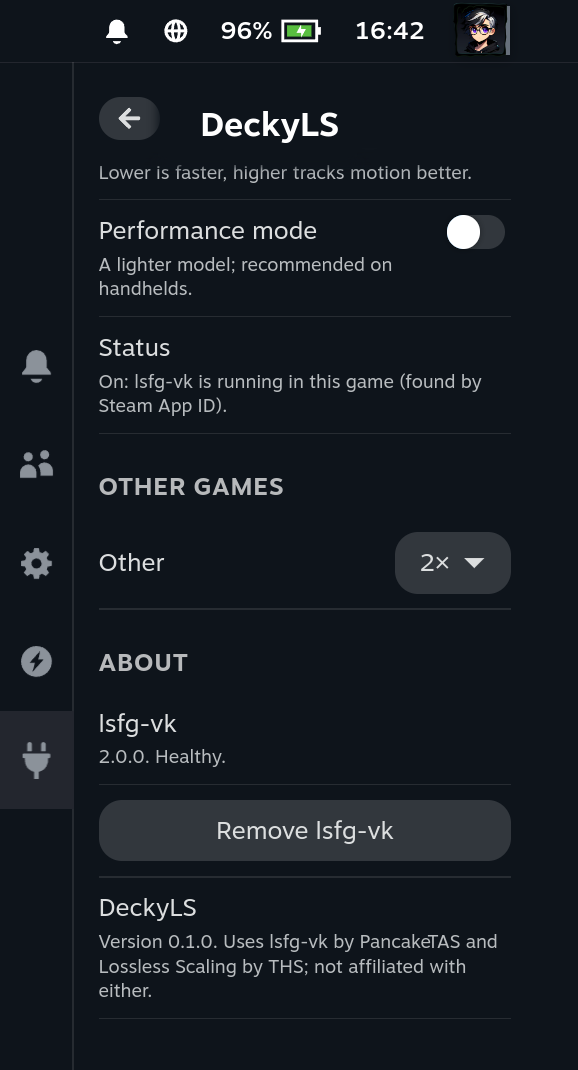
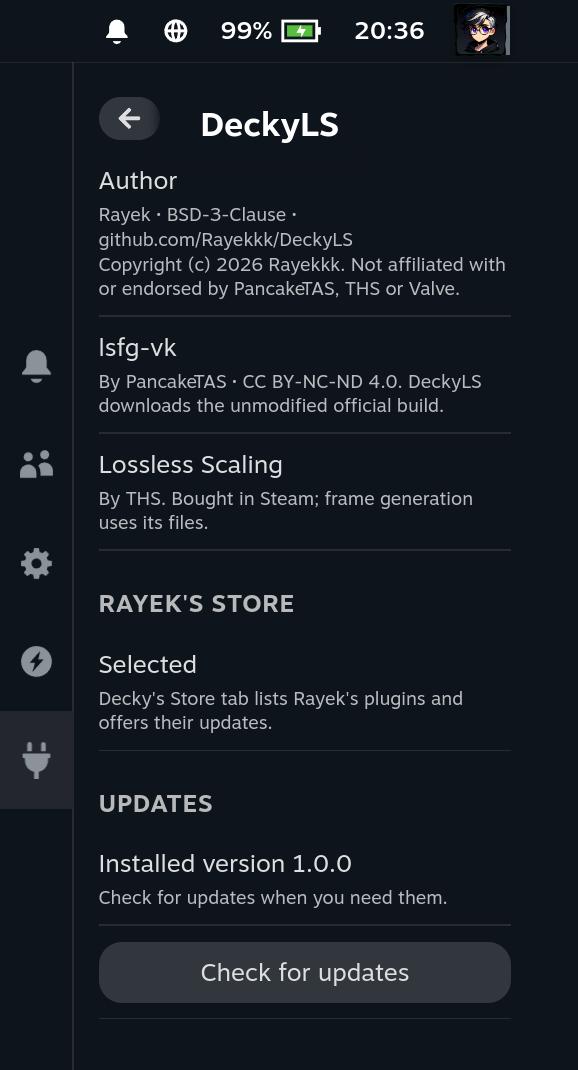
docs: refresh the About screenshot and README facts

diff --git a/README.md b/README.md
@@ -70,7 +70,7 @@ your Downloads folder, checked against GitHub's size and SHA-256; install it the
 game settings stay as they are. When a release comes with a newer lsfg-vk, the **lsfg-vk** section offers
 **Update lsfg-vk to …**.
 
-<a href="docs/screenshots/about.png"><img src="docs/screenshots/about.png" alt="About: lsfg-vk health check and Remove lsfg-vk" width="360"></a>
+<a href="docs/screenshots/about.png"><img src="docs/screenshots/about.png" alt="About: credits, Rayek's store and Check for updates" width="360"></a>
 
 ### Uninstalling
 
@@ -229,7 +229,7 @@ The AI was used to:
 
 - compare the existing Lossless Scaling plugins, find what lsfg-vk 2.0 makes possible and verify
   on the device how it picks profiles, reloads its config and logs;
-- build the automated test suites (about 145 backend tests, run on Linux and Windows, and a test
+- build the automated test suites (about 185 backend tests, run on Linux and Windows, and a test
   of the panel);
 - audit the code for bugs, security issues and wasted work, with every finding checked by
   independent review passes and, where possible, reproduced before it was fixed;
